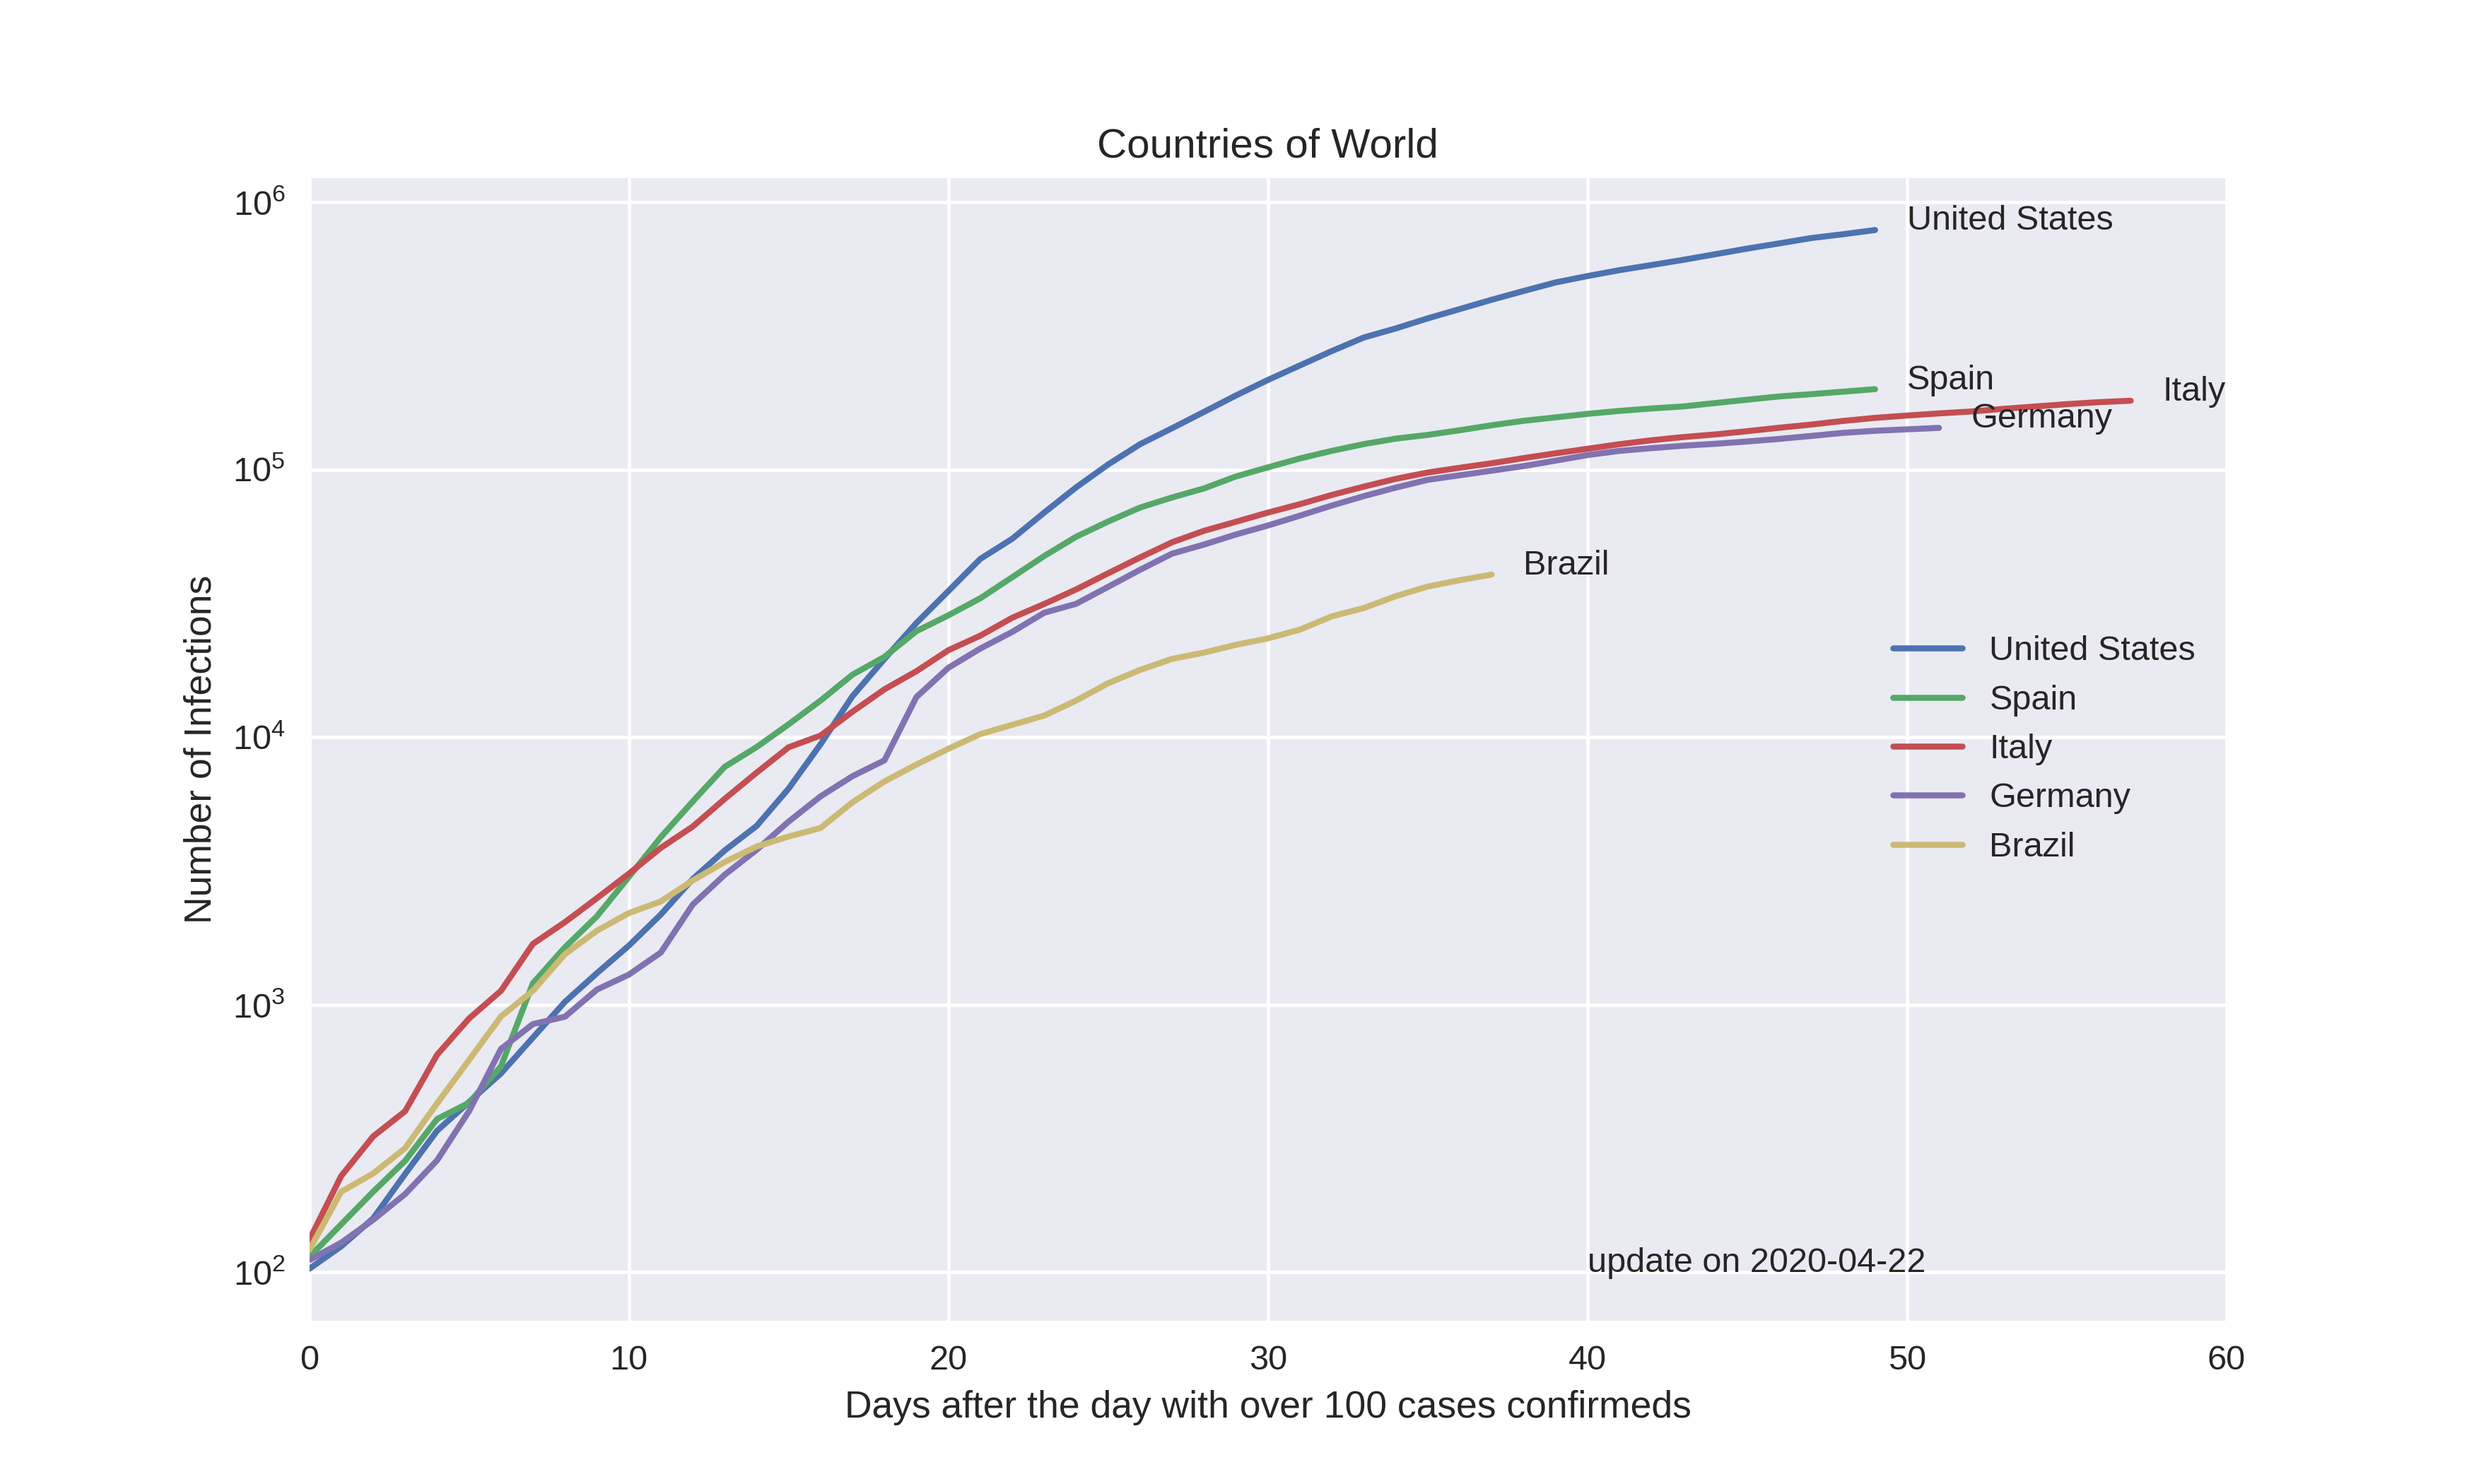
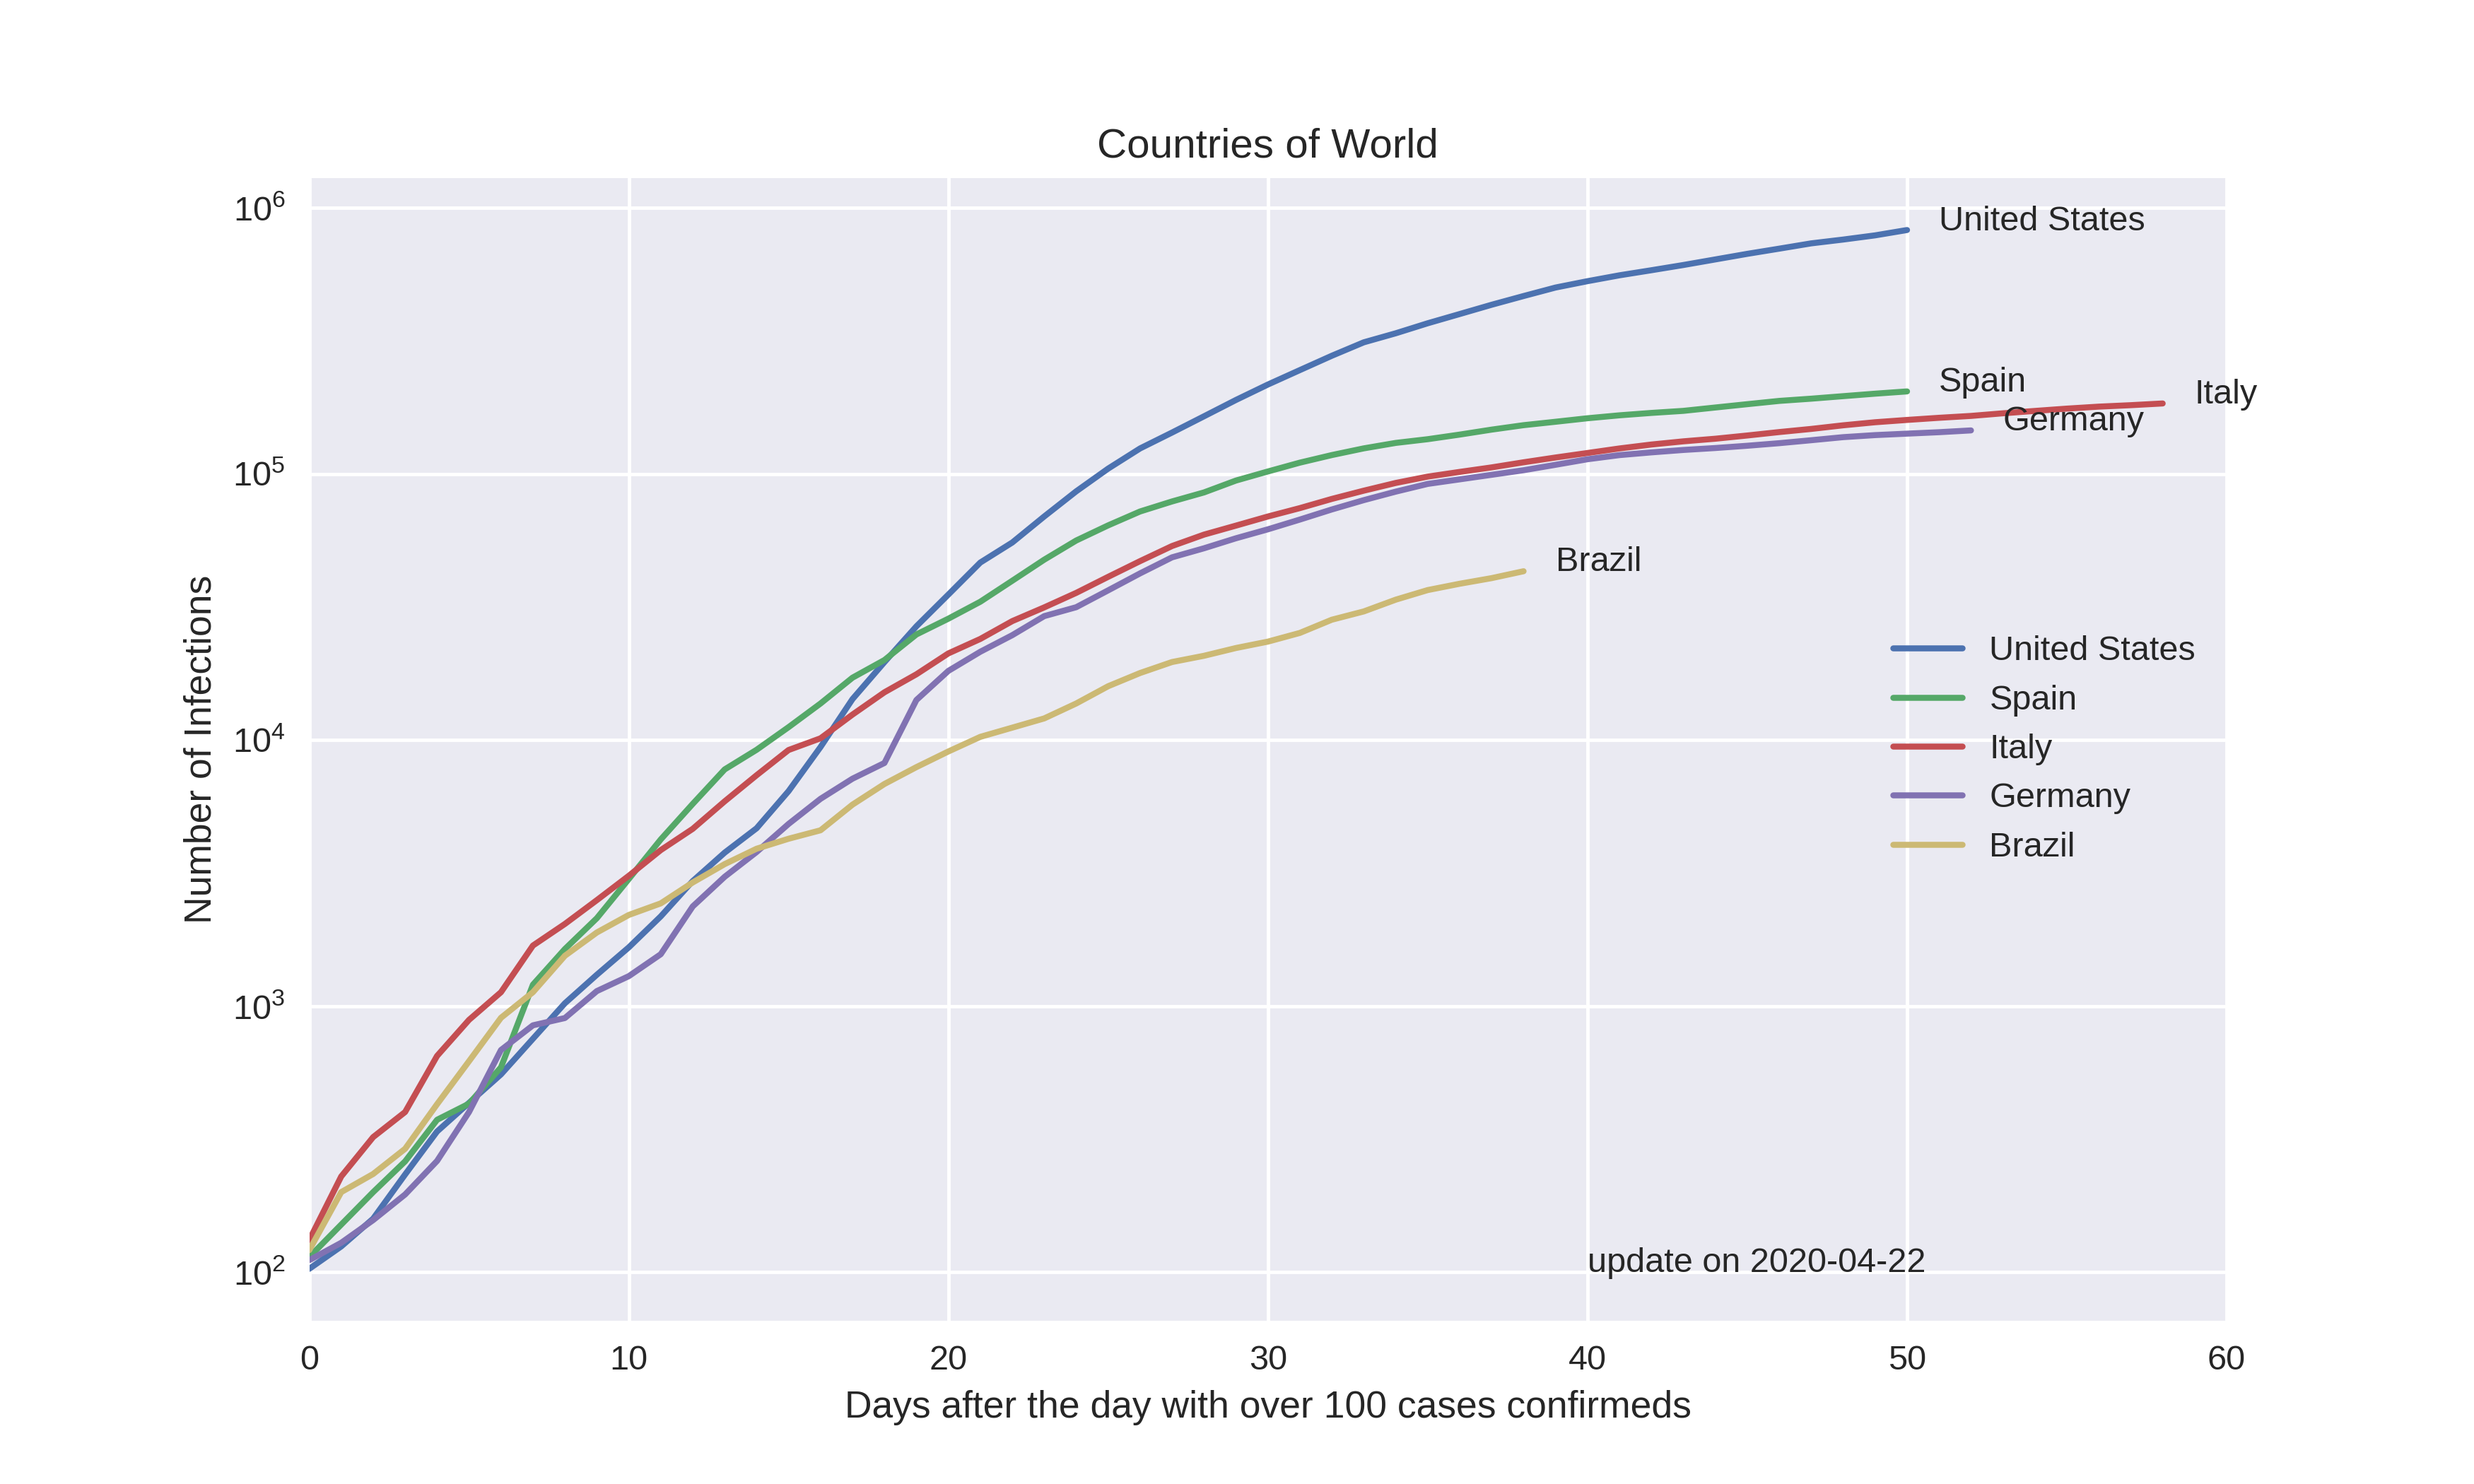
update image automake Brazil world

diff --git a/Corona-Brazil.py b/Corona-Brazil.py
@@ -223,12 +223,12 @@ TOP5 = nna.state.unique()[:5]
 fig = plt.figure(figsize=[10,6])
 ax = plt.subplot()
 
-for ii in TOP5[:5]:
+for ii in TOP5:
     p = datos[(datos["state"] == ii) & (datos["totalCases"] > 26. )]
     if len(p) > 0: 
         ax.plot(p.totalCases.values,label=ii)
         ax.text(len(p),p.totalCases.values.max(),ii)
-ax.text(40,1,'update on '+str(datetime.now().date()))
+ax.text(35,50,'update on '+str(datetime.now().date()))
 ax.set_yscale('log')
 ax.set_title("5 States of Brazil")
 ax.set_ylabel("Number of Infections")
